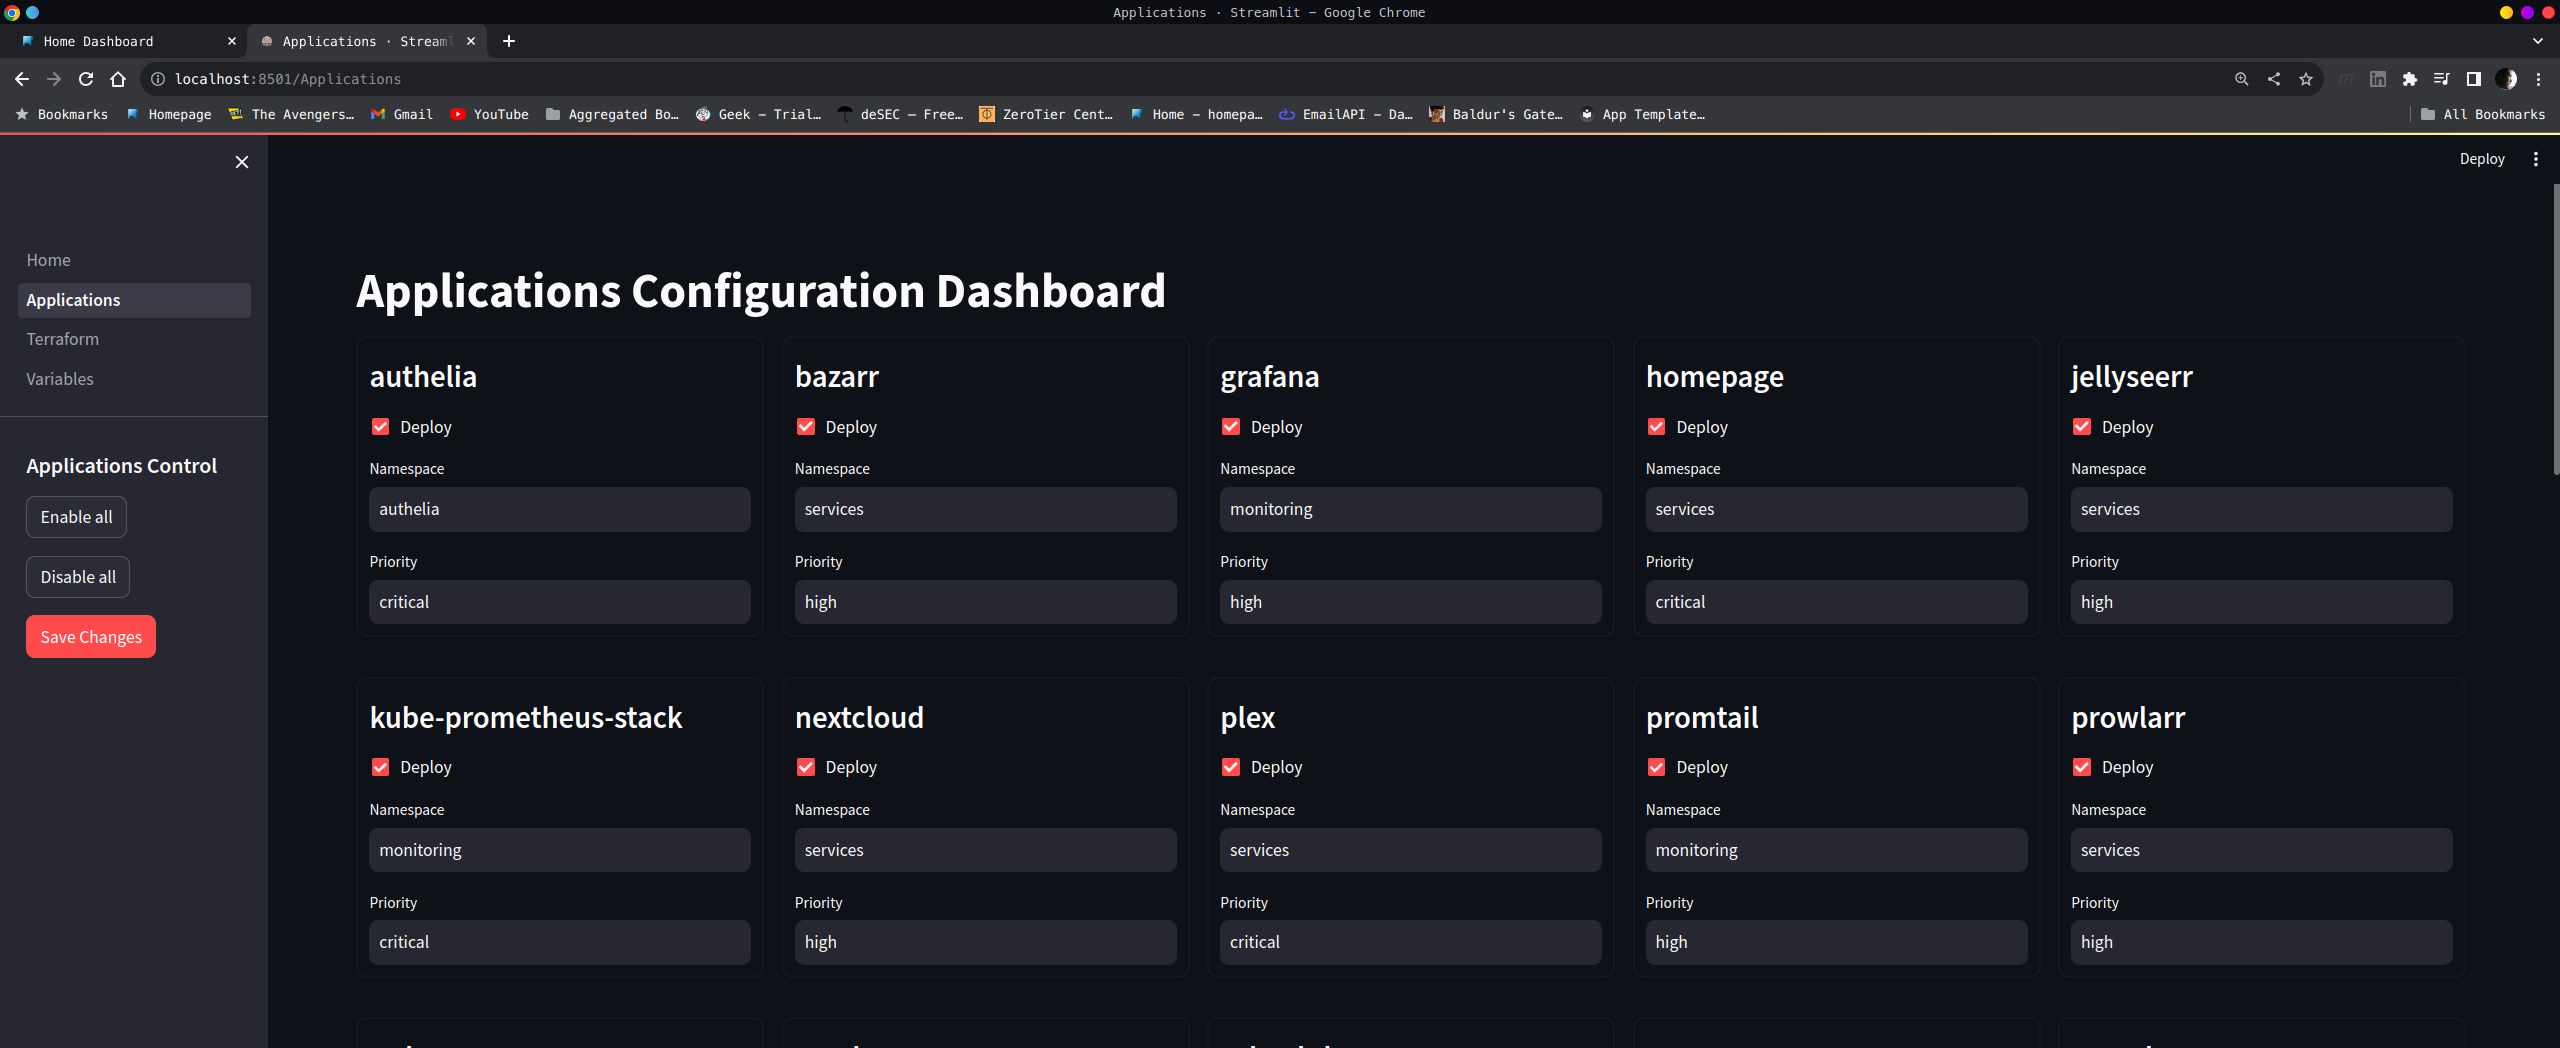
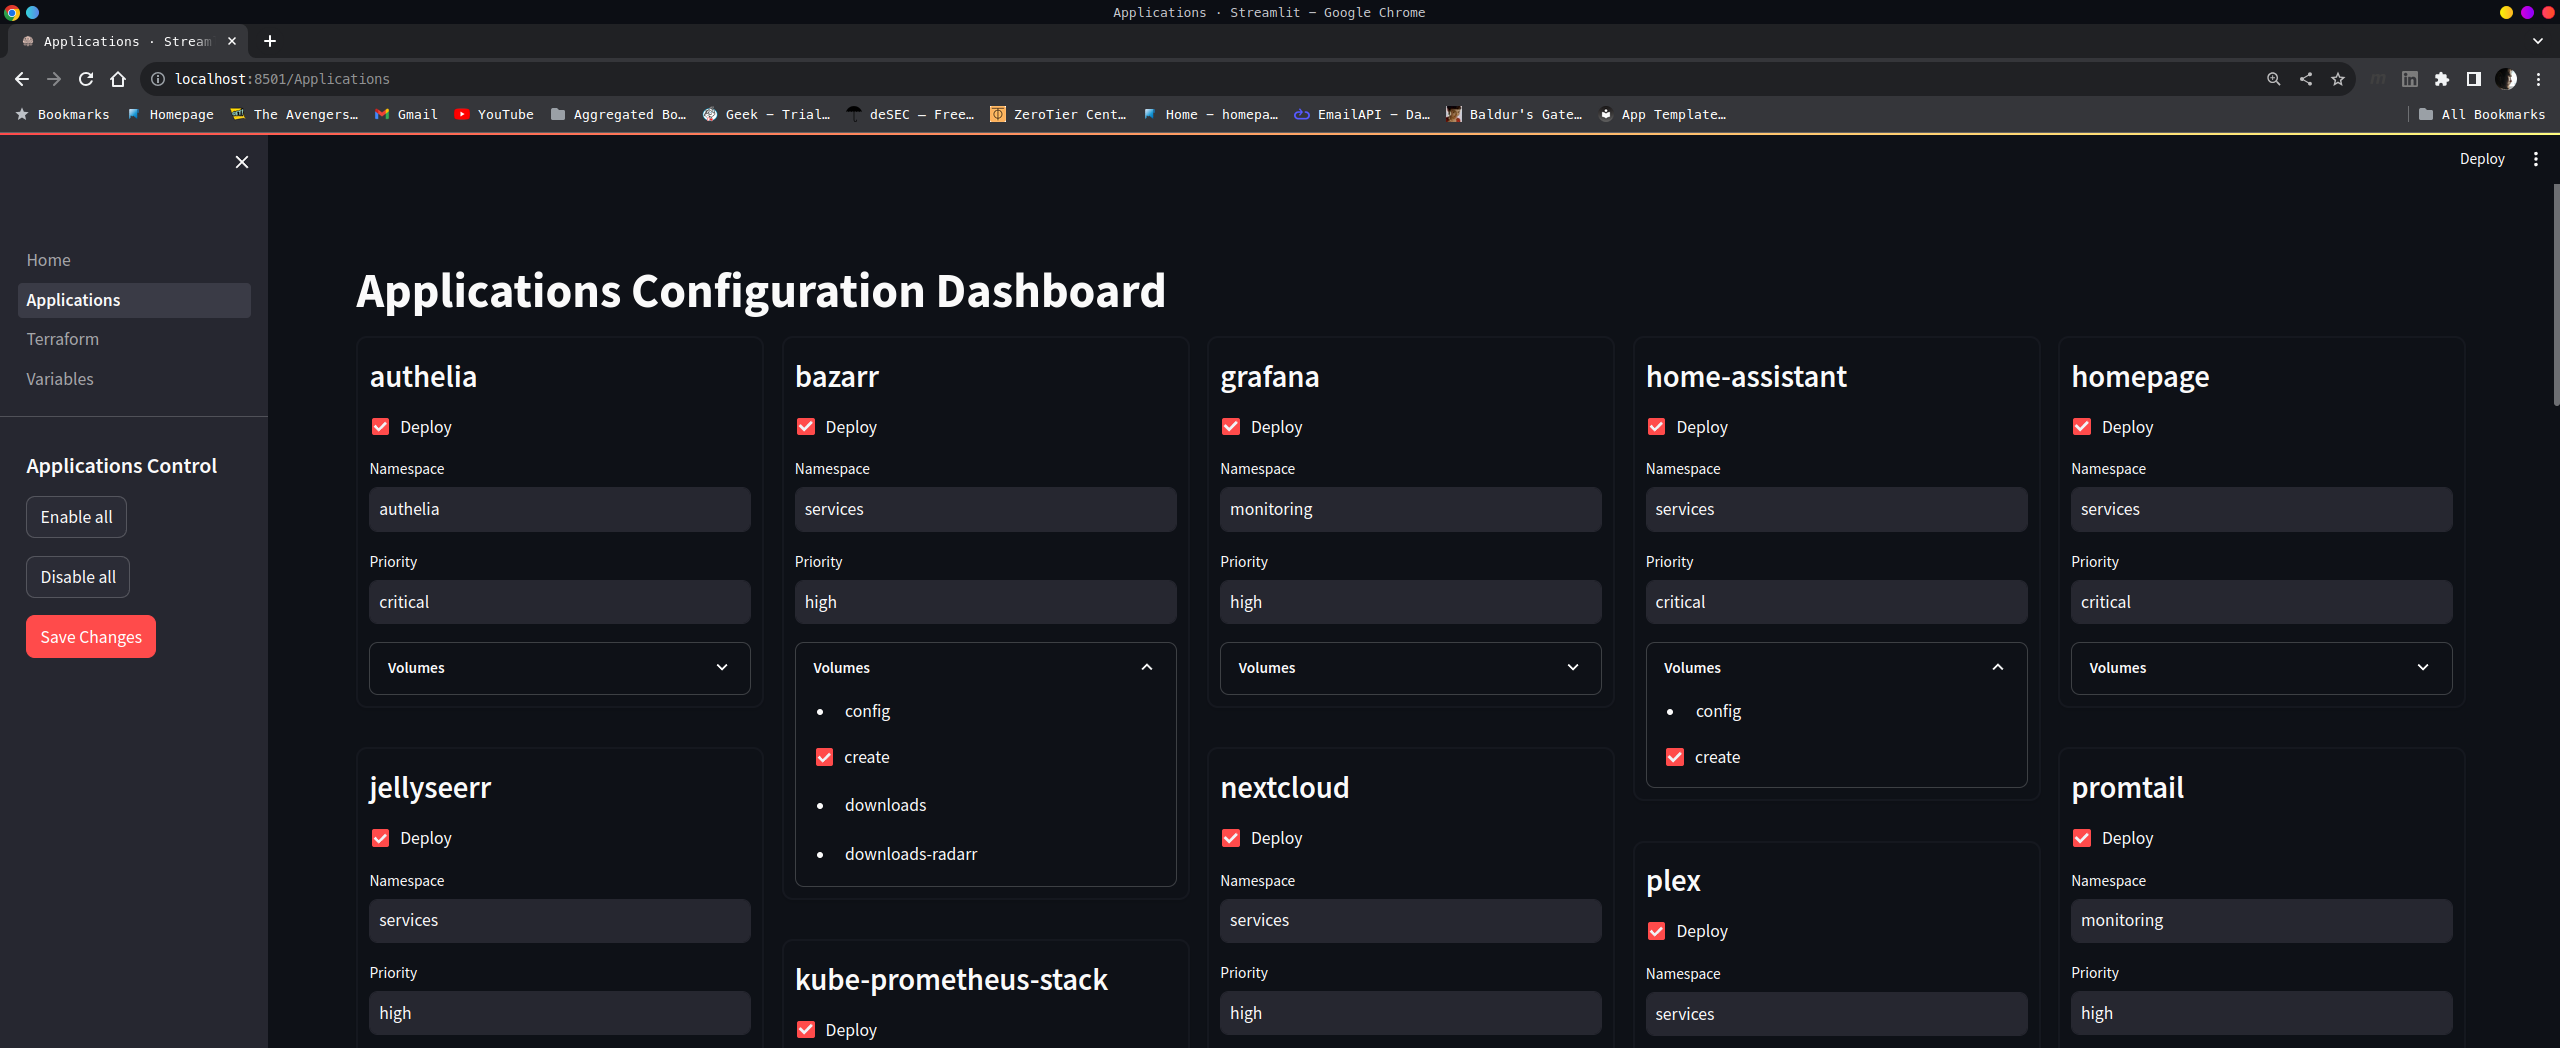
Updating readme for ansible

diff --git a/README.md b/README.md
@@ -1,7 +1,9 @@
 
 # terraHom
 
-<img src="images/logo.svg" width="400" height="400">
+<p align="left">
+  <img src="images/logo.svg" width="400" height="400">
+</p>
 
 _Mostly_ Automated setup to deploy _k3s_ and additional services on your home cluster using `homControl`.
 
@@ -19,16 +21,16 @@ _Mostly_ Automated setup to deploy _k3s_ and additional services on your home cl
     - [VPN Setup 🛠](#vpn-setup-)
       - [Obtaining the VPN config](#obtaining-the-vpn-config)
   - [Automated Deployment 🚀](#automated-deployment-)
-    - [(Non-exhaustive) Requirements](#non-exhaustive-requirements)
-    - [Ansible](#ansible)
-    - [Terraform](#terraform)
+    - [(Non-exhaustive) Requirements 🛠](#non-exhaustive-requirements-)
+    - [Ansible 🛠](#ansible-)
+    - [Terraform 🛠](#terraform-)
       - [(1) Base](#1-base)
       - [(2) Gitops](#2-gitops)
       - [(3) ArgoCD Application](#3-argocd-application)
       - [Accessing ArgoCD](#accessing-argocd)
-  - [Post Install](#post-install)
-  - [Troubleshooting](#troubleshooting)
-  - [Expanding the repo](#expanding-the-repo)
+  - [Post Install 🚀](#post-install-)
+  - [Troubleshooting 🚀](#troubleshooting-)
+  - [Expanding the repo 🚀](#expanding-the-repo-)
 
 ## Terminology 📖
 
@@ -132,10 +134,9 @@ If you are planning on deploying this on an [Air gapped environment](https://en.
 
 This is only necessary if you want to use longhorn. *_*I don't recommend using longhorn for single node deployments*_.
 
-- Attach an external hard drive or create and format a partition on your `storage` node(s) and take note of that partition's name
-  - As of now, the playbooks will only use the same partition name for all `storage` nodes, so bear that in mind if you want to have it all configured from the get go
+- Attach your external hard drive(s) or create and format a partition on your `storage` node(s) and take note of the partition's names
 
-If you're planning on adding any additional drives later that's totally fine, and they can be added manually from the Longhorn UI, or from ansible, only thing to keep in mind is that if you are planning on using Longhorn from the beginning, you should at least have one storage node so the correct Peristent Volume Claims get created and you won't risk loosing any data.
+If you're planning on adding any additional drives later that's totally fine, and they can be added manually from the Longhorn UI, or from ansible, only thing to keep in mind is that if you are planning on using Longhorn from the beginning, you should at least have one storage node so the correct Peristent Volume Claims get created and you won't risk losing any data.
 
 ### VPN Setup 🛠
 
@@ -148,8 +149,7 @@ cat wireguard.config | base64
 and then adding to your `terraform.tfvars`:
 
 ```hcl
-# With your own encoded string, of course
-vpn_config = ""
+vpn_config = "{b64 encoded string}"
 ```
 
 #### Obtaining the VPN config
@@ -160,61 +160,126 @@ If you are like me and are stuck with NordVPN for the foreseeable future, you wo
 
 ## Automated Deployment 🚀
 
-This section covers the `k3s` installation using [ansible playbooks](#ansible) and the deployment of the services using a mix of [Terraform and ArgoCD](#terraform). The playbooks are in charge of preparing the environment, installing required packages, tagging nodes and making the necessary local changes in order for terraform to work (variable creation, kubeconfig creation, etc.) unless you know what you're doing it is strongly advised to install everything using the provided playbooks. In case you want to skip this here is a list of some resource that could be missing, but I might have missed something:
+This section covers the `k3s` installation using [ansible playbooks](#ansible-) and the deployment of the services using a mix of [Terraform and ArgoCD](#terraform-). The playbooks are in charge of preparing the environment, installing required packages, tagging nodes and making the necessary local changes in order for terraform to work (variable creation, kubeconfig creation, etc.) unless you know what you're doing it is strongly advised to install everything using the provided playbooks. In case you want to skip this here is a list of some resource that could be missing, but I might have missed something:
 
-### (Non-exhaustive) Requirements
+### (Non-exhaustive) Requirements 🛠
 
 - [Longhorn](https://staging--longhornio.netlify.app/docs/0.8.1/deploy/install/#installation-requirements)
 
-### Ansible
+### Ansible 🛠
 
-If you're planning on manually installing kubernetes or if you already have a kubernetes cluster you can skip this section and go straight to [Terraform](#terraform). Just make sure that everything is matching to what `ansible` would have created (especially installing dependencies and tagging of resources)
+If you're planning on manually installing kubernetes or if you already have a kubernetes cluster you can skip this section and go straight to [Terraform](#terraform-). Just make sure that everything is matching to what `ansible` would have created (especially installing dependencies and tagging of resources)
 
 1. Create `ansible/inventory/deploy/group_vars/all.yml` with the following:
 
     ```yaml
-      ---
-      k3s_version: v1.26.3+k3s1
-      systemd_dir: /etc/systemd/system
-      master_ip: "{{ hostvars[groups['master'][0]]['ansible_host'] | default(groups['master'][0]) }}"
-      extra_server_args: "--disable traefik --prefer-bundled-bin --kube-controller-manager-arg bind-address=0.0.0.0 --kube-proxy-arg metrics-bind-address=0.0.0.0 --kube-scheduler-arg bind-address=0.0.0.0" 
-      timezone: 'Your timezone' # in the format America/Chicago
-      nfs_drive_partition: 'your previously selected partition' # for example: "sda1"
-      allowed_ssh_networks:
-          - network1 # in ip/subnet notation: 192.168.1.0/24
-          - network2
+    ---
+    # Specifies the k3s version to be installed.
+    k3s_version: "v1.26.3+k3s1"
+
+    # Directory for systemd service files.
+    systemd_dir: "/etc/systemd/system"
+
+    # IP of the master node, retrieved from Ansible's dynamic inventory.
+    master_ip: "{{ hostvars[groups['master'][0]]['ansible_host'] | default(groups['master'][0]) }}"
+
+    # Arguments to customize the k3s server behavior. 
+    # Leave these default values unless you know what you're doing
+    extra_server_args: "--disable traefik --prefer-bundled-bin --kube-controller-manager-arg bind-address=0.0.0.0 --kube-proxy-arg metrics-bind-address=0.0.0.0 --kube-scheduler-arg bind-address=0.0.0.0" 
+
+    # Arguments for additional k3s agent configuration.
+    # Leave these default values unless you know what you're doing
+    extra_agent_args: ""
+
+    # System timezone configuration for k3s nodes.
+    timezone: 'UTC' # Change to your desired timezone.
+
+    # Partition for NFS storage, ensure it is formatted and available.
+    nfs_drive_partition: "nvme0n1p1" # Example partition.
+
+    # Networks permitted for SSH access to the nodes.
+    allowed_ssh_networks:
+      - "10.22.0.0/16"
+      - "172.16.100.0/24"
+
+    # ZeroTier network ID for node communication.
+    zerotier_network_id: "1234567890abcdef" # Example network ID.
     ```
 
-2. Create `ansible/inventory/deploy/hosts.ini` with the following:
-  
-    ```ini
-    [master]
-    {master hostname} ansible_host= {master ip} priority=critical
-    
-    [agent]
-    {agent hostname} ansible_host= {agent ip} priority=low
-    {agent hostname2} ansible_host= {agent ip2} priority=high
-    
-    [k3s:children]
-    master
-    agent
-    
-    [storage:children]
-    master
-  
-    ; Additionally you can add individual members to the storage group by doing:
-    ;[storage]
-    ;{agent hostname2}
-    ```
+2. Create `ansible/inventory/deploy/hosts.yaml` with the following:
 
-   - You can always delete or comment (`;`) depending on your setup
-   - Replace the values inside {} with your actual values
+   ```yaml
+   ---
+   # The ungrouped section can contain hosts that don't fit into any other group.
+   ungrouped:
+     hosts: {}
+
+   # Define the master nodes for the k3s cluster. (Multi master is still a WIP, so only define one for now)
+   master:
+     hosts:
+       kilvin:
+         ansible_host: 192.168.x.x # Master node IP.
+         ansible_user: admin # Replace with the actual username.
+         ansible_become_pass: secret # Replace with the actual sudo password.
+         priority: critical # Node priority for orchestration.
+         disks:
+           - device: sda3 # Device identifier for storage.
+             path: /mnt/external-disk # Mount path for the device.
+             name: root # Name label for the disk.
+             longhorn: true # Indicates Longhorn manages this disk.
+
+   # Define the agent nodes for the k3s cluster.
+   agent:
+     hosts:
+       kvothe:
+         ansible_host: 192.168.x.y # Agent node IP.
+         ansible_user: admin # Replace with the actual username.
+         ansible_become_pass: secret # Replace with the actual sudo password.
+         priority: low # Node priority for orchestration.
+         k3s_node_external_ip: 10.242.x.z # Required for multi-cloud clusters, typically used with ZeroTier.
+         disks: [] # List of disk configurations for the node.
+       elodin:
+         ansible_host: 192.168.x.z # Agent node IP.
+         ansible_user: admin # Replace with the actual username.
+         ansible_become_pass: secret # Replace with the actual sudo password.
+         priority: high # Node priority for orchestration.
+         disks:
+           - device: nvme0n1p3 # Device identifier for storage.
+             path: /mnt/external-disk # Mount path for the device.
+             name: elodin-root # Name label for the disk.
+             longhorn: false # Indicates this disk will not be managed by Longhorn.
+
+   # Group definitions for the kubernetes nodes.
+   k3s:
+     children:
+       master:
+       agent:
+
+   # Group definitions for nodes contributing storage resources.
+   storage:
+     hosts:
+       kvothe:
+       elodin:
+     children:
+       master:
+
+   # Group definitions for nodes that are part of a ZeroTier network.
+   zerotier:
+     children:
+       agent:
+       master:
+   ```
+
+   - When `longhorn` is set to `true`, the disk will be managed by Longhorn, which means it will be used for dynamic volume provisioning and managed as part of Longhorn's distributed storage system.
+   - When `longhorn` is set to `false`, the disk will not be managed by Longhorn; what will happen is that the disk will be exposed over NFS and will be added to the `terraform.tfvars` and used to create kubernetes PVCs.
+   - The `zerotier` group is optional. It is used to create an overlay network that connects all of your nodes, even if they are on different networks or behind NAT. You can comment this out if you're not planning on using it.
+   - If `zerotier` is configured, `k3s_node_external_ip` should be set to the node's IP within the ZeroTier network. This IP will be used for cross-node communication within the overlay network, allowing services to communicate across different clouds or data centers as if they were in the same local network.
    - The priority should be one of [critical,high,low]
 
 3. Run the ansible playbook (from the root of the repo):
   
    ```bash
-   ansible-playbook ./ansible/site.yml -i ./ansible/inventory/deploy/hosts.ini --ask-become-pass --user {your_user}
+   ansible-playbook ./ansible/site.yml -i ./ansible/inventory/deploy/hosts.yaml
    ```
 
 4. Once the playbook finishes you can verify if everything is working by running:
@@ -222,20 +287,21 @@ If you're planning on manually installing kubernetes or if you already have a ku
      ```bash
      ❯ kubectl get nodes
       NAME     STATUS   ROLES                  AGE    VERSION
-      kilvin   Ready    control-plane,master   131d   v1.26.3+k3s1
-      kvothe   Ready    worker                 34d    v1.26.3+k3s1
+      kilvin   Ready    control-plane,master   168d   v1.26.3+k3s1
+      kvothe   Ready    worker                 20d    v1.26.3+k3s1
+      elodin   Ready    worker                 20d    v1.26.3+k3s1
      ```
 
-5. Verify that everything ran as expected, some of the required steps won't be executed if all roles don't finish running succesfully on all hosts
+5. Verify that everything ran as expected, some of the next steps won't be executed if all roles don't finish running succesfully on all hosts
 
 6. (Optional) All of the plays have been tagged, so, if you want to make any changes and don't want to run everything again you can just run plays matching specific tags:
   
    ```bash
-   ansible-playbook ./ansible/site.yml -i ./ansible/inventory/deploy/hosts.ini --ask-become-pass --user {your_user} --tags kubernetes,download
+   ansible-playbook ./ansible/site.yml -i ./ansible/inventory/deploy/hosts.yaml --tags kubernetes,download
    
    ```
 
-### Terraform
+### Terraform 🛠
 
 Ansible just installs kubernetes and makes the necessary configurations, but doesn't deploy anything to the cluster, as a matter of fact, by default the playbook even skips some components that come with `k3s` by default to allow for a fresh, fully customized deployment.
 
@@ -326,14 +392,14 @@ kubectl get secret argocd-initial-admin-secret -o jsonpath='{.data.password}' -n
 - Alternatively, if you are deploying the default applications, or at least the `homepage` application, you can head to `https://home.{your_domain}/` where you will find a dashboard that will automatically update with links to your deployed services:
   ![home dashboard](images/home.png)
 
-## Post Install
+## Post Install 🚀
 
 Read the [Post-Install](./docs/Post-Install.md) file to see any additional configs for some of the services to be deployed
 
-## Troubleshooting
+## Troubleshooting 🚀
 
 Read the [Troubleshooting](./docs/Troubleshooting.md) file to find solutions to common problems.
 
-## Expanding the repo
+## Expanding the repo 🚀
 
 Read the [Expanding](./docs/Expanding.md) file to find a more in-depth explanation on how things work and how to add your own services and functionalities.